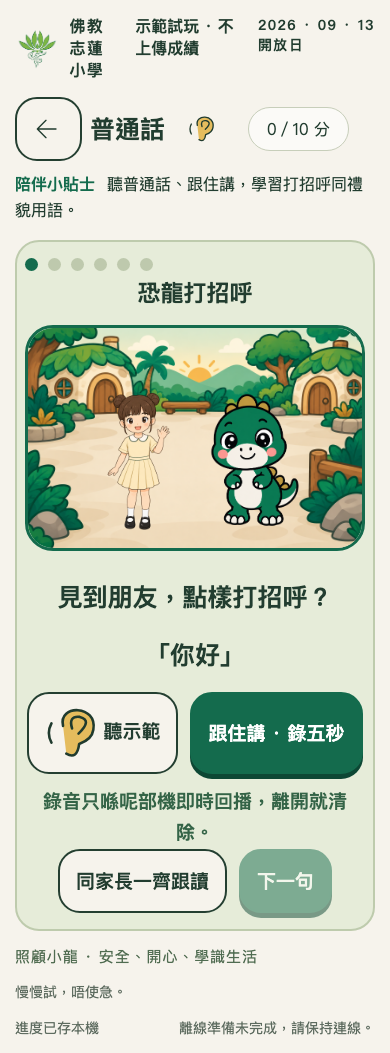
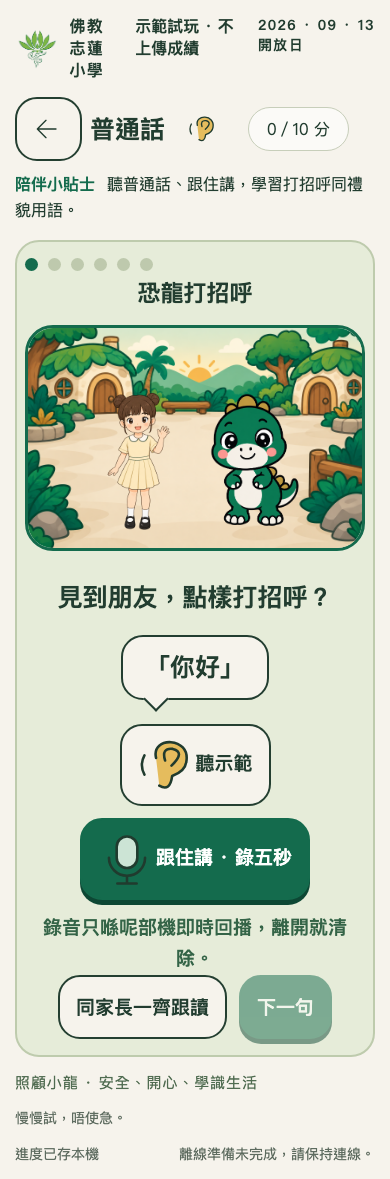
Polish greeting and time-machine visuals; prepare Google acceptance checks

diff --git a/sw.js b/sw.js
@@ -1,5 +1,5 @@
 // Generated precache manifest. Rebuild whenever local assets change.
-const CACHE='dino-island-37e3dee44285';
+const CACHE='dino-island-5d5631d4b723';
 const BASE=new URL('./',self.location.href);
 const ASSETS=["board/board.css","board/board.js","board/img/board-skin.png","board/index.html","hub/app.js","hub/audio/en/actions/freeze.wav","hub/audio/en/actions/hands.wav","hub/audio/en/actions/jump.wav","hub/audio/en/actions/left.wav","hub/audio/en/actions/right.wav","hub/audio/en/actions/sit.wav","hub/audio/en/actions/stand.wav","hub/audio/yue/actions/freeze.wav","hub/audio/yue/actions/hands.wav","hub/audio/yue/actions/left.wav","hub/audio/yue/actions/right.wav","hub/audio/yue/actions/sit.wav","hub/audio/yue/characters/fire.wav","hub/audio/yue/characters/moon.wav","hub/audio/yue/characters/mountain.wav","hub/audio/yue/characters/sun.wav","hub/audio/yue/characters/water.wav","hub/audio/yue/characters/wood.wav","hub/audio/yue/common/complete.wav","hub/audio/yue/common/hint.wav","hub/audio/yue/common/retry.wav","hub/audio/yue/common/welcome.wav","hub/audio/yue/intro/art.wav","hub/audio/yue/intro/chinese.wav","hub/audio/yue/intro/computing.wav","hub/audio/yue/intro/english.wav","hub/audio/yue/intro/general.wav","hub/audio/yue/intro/humanities.wav","hub/audio/yue/intro/mandarin.wav","hub/audio/yue/intro/math.wav","hub/audio/yue/intro/music.wav","hub/audio/yue/intro/pe.wav","hub/audio/yue/intro/science.wav","hub/audio/zh-CN/greetings/goodbye.wav","hub/audio/zh-CN/greetings/hello.wav","hub/audio/zh-CN/greetings/morning.wav","hub/audio/zh-CN/greetings/please.wav","hub/audio/zh-CN/greetings/thanks.wav","hub/audio/zh-CN/greetings/welcome.wav","hub/certificate.js","hub/games.js","hub/img/chars/dino-baby-eat.png","hub/img/chars/dino-baby-sleep.png","hub/img/chars/dino-baby.png","hub/img/chars/landmark-hatch.png","hub/img/chars/landmark-longneck.png","hub/img/chars/landmark-triceratops.png","hub/img/chars/xiaolian-clap.png","hub/img/chars/xiaolian-color.png","hub/img/chars/xiaolian-highfive.png","hub/img/chars/xiaolian-point.png","hub/img/chars/xiaolian-welcome.png","hub/img/chars/xiaolian-write.png","hub/img/chars/xiaozhi-highfive.png","hub/img/chars/xiaozhi-jump.png","hub/img/chars/xiaozhi-run.png","hub/img/chars/xiaozhi-sit.png","hub/img/chars/xiaozhi-step.png","hub/img/chars/xiaozhi-stretch.png","hub/img/chars/xiaozhi-tablet.png","hub/img/chars/xiaozhi-welcome.png","hub/img/games/art/egg-studio.png","hub/img/games/chinese/mountain.png","hub/img/games/chinese/river.png","hub/img/games/chinese/volcano.png","hub/img/games/computing/coding-garden.png","hub/img/games/general/bedtime.png","hub/img/games/general/daytime.png","hub/img/games/general/morning.png","hub/img/games/humanities/river-centre.png","hub/img/games/humanities/safe-forest.png","hub/img/games/humanities/volcano-edge.png","hub/img/games/mandarin/village.png","hub/img/games/math/feeding-garden.png","hub/img/games/music/music-stage.png","hub/img/games/pe/forest-arena.png","hub/img/games/pe/forest-visitor.png","hub/img/games/science/excavation.png","hub/img/map/island-path.png","hub/img/ui/cert-frame.png","hub/index.html","hub/modules/art.js","hub/modules/chinese-scenes.js","hub/modules/computing.js","hub/modules/fossil-art.js","hub/modules/general.js","hub/modules/humanities.js","hub/modules/mandarin.js","hub/modules/math.js","hub/modules/motion.js","hub/modules/music.js","hub/modules/pe-scene.js","hub/modules/science.js","hub/park-guides.js","index.html","setup/index.html","shared/certificate-link.js","shared/config.js","shared/core.js","shared/game-clock-gate.js","shared/game-state.js","shared/icons.js","shared/img/school-logo.png","shared/models/pose-landmarker-lite-v1.task","shared/network.js","shared/offline.js","shared/pose-actions.js","shared/pose-camera.js","shared/qrcode.js","shared/recorder.js","shared/sequence.js","shared/storage.js","shared/style.css","shared/vendor/mediapipe/vision-bundle.js","shared/vendor/mediapipe/wasm/vision_wasm_internal.js","shared/vendor/mediapipe/wasm/vision_wasm_internal.wasm","shared/vendor/mediapipe/wasm/vision_wasm_nosimd_internal.js","shared/vendor/mediapipe/wasm/vision_wasm_nosimd_internal.wasm","shared/voice.js","hub/","board/","setup/"].map(p=>new URL(p,BASE).href);
 self.addEventListener('install',e=>e.waitUntil(caches.open(CACHE).then(c=>c.addAll(ASSETS))));

diff --git a/hub/modules/mandarin.js b/hub/modules/mandarin.js
@@ -18,7 +18,7 @@ export function mountMandarin(root,state,save,finish,{pause=()=>{},resume=()=>{}
  const status=text=>{if(live)root.querySelector('.feedback').textContent=text;};
  function render(){
   clearAudio();const [id,phrase,prompt]=greetings[state.round];const guide=state.round%2===0?'xiaolian':'xiaozhi',guideName=state.round%2===0?'小蓮':'小志';
-  root.innerHTML=`<div class="rounds" aria-label="第 ${state.round+1} 句，共六句">${greetings.map((_,i)=>`<span class="round-dot ${i<=state.round?'done':''}"></span>`).join('')}</div><h2 class="game-instruction">恐龍打招呼</h2><div class="greeting-content"><div class="stage greeting-village"><img class="greeting-backdrop" src="img/games/mandarin/village.png" alt="恐龍村：朋友喺廣場見面打招呼"><img class="character companion" src="img/chars/${guide}-welcome.png" alt="${guideName}陪小龍打招呼"><img class="character dino" src="img/chars/dino-baby.png" alt="小龍留心聽"></div><div class="greeting-dialogue"><p class="game-instruction">${prompt}</p><p class="game-instruction">「${phrase}」</p><div class="actions"><button id="greeting-listen">${icon('ear')}聽示範</button><button id="greeting-record" class="primary">跟住講 · 錄五秒</button><button id="greeting-stop" hidden>講完啦</button><button id="greeting-play" hidden>聽返自己把聲</button></div><p class="feedback" role="status">錄音只喺呢部機即時回播，離開就清除。</p><div class="actions"><button id="greeting-family">同家長一齊跟讀</button><button id="greeting-next" class="primary" disabled>${state.round===5?'完成打招呼':'下一句'}</button></div></div></div>`;
+  root.innerHTML=`<div class="rounds" aria-label="第 ${state.round+1} 句，共六句">${greetings.map((_,i)=>`<span class="round-dot ${i<=state.round?'done':''}"></span>`).join('')}</div><h2 class="game-instruction">恐龍打招呼</h2><div class="greeting-content"><div class="stage greeting-village"><img class="greeting-backdrop" src="img/games/mandarin/village.png" alt="恐龍村：朋友喺廣場見面打招呼"><img class="character companion" src="img/chars/${guide}-welcome.png" alt="${guideName}陪小龍打招呼"><img class="character dino" src="img/chars/dino-baby.png" alt="小龍留心聽"></div><div class="greeting-dialogue"><p class="game-instruction">${prompt}</p><p class="game-instruction speech-bubble">「${phrase}」</p><div class="actions"><button id="greeting-listen">${icon('ear')}聽示範</button><button id="greeting-record" class="primary">${icon('microphone')}跟住講 · 錄五秒</button><button id="greeting-stop" hidden>講完啦</button><button id="greeting-play" hidden>聽返自己把聲</button></div><p class="feedback" role="status">錄音只喺呢部機即時回播，離開就清除。</p><div class="actions"><button id="greeting-family">同家長一齊跟讀</button><button id="greeting-next" class="primary" disabled>${state.round===5?'完成打招呼':'下一句'}</button></div></div></div>`;
   const record=root.querySelector('#greeting-record'),stop=root.querySelector('#greeting-stop'),play=root.querySelector('#greeting-play'),next=root.querySelector('#greeting-next');
   root.querySelector('#greeting-listen').onclick=async()=>{
    if(busy)return;const ok=await playVoice(new URL(`../audio/zh-CN/greetings/${id}.wav`,import.meta.url));if(!ok)status('示範聲音未能播放，請家長陪同讀出呢句。');

diff --git a/tests/live-google.js b/tests/live-google.js
@@ -1,0 +1,35 @@
+import {GoogleBridge} from '../shared/network.js';
+export const LIVE_URL_RE=/^https:\/\/script\.google\.com\/macros\/s\/[^/]+\/exec$/;
+const ZONES=['math','chinese','english','mandarin','general','science','humanities','art','music','pe','computing'];
+export function createRpc(url,token=''){
+ const bridge=new GoogleBridge(url);
+ const rpc=(method,payload={})=>bridge.call(method,method==='getBoard'?payload:{...payload,deviceToken:token});
+ rpc.destroy=()=>bridge.destroy();return rpc;
+}
+export async function runAcceptance(rpc,onProgress=()=>{}){
+ const playerId=`live-${crypto.randomUUID()}`,name=`測試${Math.floor(Math.random()*10000)}`;
+ const report={playerId,name,results:[],passed:false,unverified:false};
+ const send=(version,zones)=>rpc('savePlayer',{requestId:`${playerId}:${version}`,player:{id:playerId,name,version,zones}});
+ const check=(name,pass,detail)=>{report.results.push({name,status:pass===null?'unverified':pass?'pass':'fail',detail});onProgress(report);};
+ const zones=count=>Object.fromEntries(ZONES.slice(0,count).map(id=>[id,id==='math'?240000:1000]));
+ onProgress(report); // Show the ID before writing, including when a later request fails.
+ let r=await send(1,{math:240000});
+ check('240000ms 接受',r.score===1&&r.totalMs===240000,`站數 ${r.score}，時間 ${r.totalMs}ms`);
+ let rejected=false;
+ try{await send(2,{english:240001});}catch(e){if(!e.message.includes('站點時間不正確'))throw e;rejected=true;}
+ check('240001ms 拒絕',rejected,rejected?'收到站點時間驗證錯誤':'後台未拒絕超時紀錄');
+ r=await send(3,{math:1});
+ check('已完成站時間不可重寫',r.score===1&&r.totalMs===240000,`站數 ${r.score}，時間 ${r.totalMs}ms`);
+ r=await send(4,zones(6));const six=await rpc('getBoard');
+ check('六站未進排名',r.score===6&&r.totalMs===245000&&six.exploring>=1&&!six.players.some(p=>p.id===playerId),`本人 ${r.score} 站；探索中 ${six.exploring} 位（榜只提供合計人數）`);
+ r=await send(5,zones(10));
+ check('十站完成紀錄',r.score===10&&r.totalMs===249000,`站數 ${r.score}，時間 ${r.totalMs}ms`);
+ const board=await rpc('getBoard'),ranked=board.players.find(p=>p.id===playerId);
+ const outside=!ranked&&board.players.length===10&&board.others>0;
+ check('十站排名',ranked?ranked.zonesCompleted===10&&ranked.totalMs===249000:outside?null:false,ranked?'測試紀錄已出現在 Top 10':outside?'Top 10 已滿，需在 Sheets 另行確認測試紀錄':'榜上找不到已完成紀錄');
+ r=await send(6,zones(11));
+ check('第十一科不增加總分',r.score===10&&r.totalMs===249000,`站數 ${r.score}，時間 ${r.totalMs}ms`);
+ report.board={ranked:board.players.length,others:board.others,exploring:board.exploring};
+ report.unverified=report.results.some(x=>x.status==='unverified');
+ report.passed=report.results.every(x=>x.status==='pass');return report;
+}

diff --git a/tests/live-google.html b/tests/live-google.html
@@ -1,0 +1,33 @@
+<!doctype html>
+<html lang="zh-HK">
+<meta charset="utf-8"><meta name="viewport" content="width=device-width,initial-scale=1">
+<title>Google 驗收準備</title><link rel="stylesheet" href="../shared/style.css">
+<main class="setup">
+ <p class="eyebrow">老師使用 · 本機驗收準備</p><h1>Google 後台驗收</h1>
+ <p>網址及裝置憑證只存在本頁記憶體。本頁不自動清理、不上傳相片。真實 Google 尚未測試。</p>
+ <label for="url">Apps Script 正式部署網址</label><input id="url" type="url" autocomplete="off" placeholder="https://script.google.com/macros/s/…/exec">
+ <label for="token">裝置憑證（建立測試紀錄時需要）</label><input id="token" type="password" autocomplete="off">
+ <div class="actions"><button id="board">讀榜</button><button id="run" class="primary">建立測試紀錄並驗收</button></div>
+ <p id="status" class="notice" role="status"></p><pre id="result" aria-live="polite" style="white-space:pre-wrap;overflow-wrap:anywhere"></pre>
+ <p>驗收會建立一條「測試xxxx」紀錄。完成後由老師按下方顯示的參加者 ID 在 Sheets 移除該條測試紀錄；本頁不會自動刪除。</p>
+</main>
+<script type="module">
+ import {LIVE_URL_RE,createRpc,runAcceptance} from './live-google.js';
+ const $=s=>document.querySelector(s),url=$('#url'),token=$('#token'),status=$('#status'),out=$('#result');
+ const buttons=[$('#board'),$('#run')],show=x=>out.textContent=JSON.stringify(x,null,2);
+ async function run(write){
+  buttons.forEach(b=>b.disabled=true);let rpc;
+  try{
+   if(!LIVE_URL_RE.test(url.value.trim()))throw Error('請填正式 /exec 部署網址。');
+   if(write&&!token.value.trim())throw Error('請輸入裝置憑證。');
+   rpc=createRpc(url.value.trim(),write?token.value.trim():'');
+   status.textContent=write?'建立測試紀錄並驗收中…':'讀榜中…';
+   if(!write){show(await rpc('getBoard'));status.textContent='已收到榜資料。';return;}
+   const r=await runAcceptance(rpc,show);show(r);
+   status.textContent=r.results.some(x=>x.status==='fail')?'驗收未通過。':r.unverified?'部分未能驗證，請查看結果。':r.passed?'驗收通過。':'驗收未完成。';
+  }catch(e){status.textContent=`未完成：${e.message}`;}
+  finally{rpc?.destroy();buttons.forEach(b=>b.disabled=false);}
+ }
+ $('#board').onclick=()=>run(false);$('#run').onclick=()=>run(true);
+</script>
+</html>

diff --git a/shared/network.js b/shared/network.js
@@ -2,8 +2,8 @@ import {CONFIG} from './config.js';
 import {read,write,DEMO} from './storage.js';
 export const networkSettings=()=>({...CONFIG,...read('settings',{}),...(DEMO?{appScriptUrl:'',deviceToken:''}:{})});
 export class GoogleBridge{
- constructor(){this.pending=new Map();this.channel=crypto.randomUUID();this.ready=null;this.receiver=null;}
- connect(){if(this.ready)return this.ready;const url=networkSettings().appScriptUrl;if(!url)return Promise.reject(Error('尚未設定活動連線'));if(!/^https:\/\/script\.google\.com\/macros\/s\/[^/]+\/exec$/.test(url))return Promise.reject(Error('活動連線網址不正確'));
+ constructor(appScriptUrl=null){this.pending=new Map();this.channel=crypto.randomUUID();this.ready=null;this.receiver=null;this.appScriptUrl=appScriptUrl;}
+ connect(){if(this.ready)return this.ready;const url=this.appScriptUrl??networkSettings().appScriptUrl;if(!url)return Promise.reject(Error('尚未設定活動連線'));if(!/^https:\/\/script\.google\.com\/macros\/s\/[^/]+\/exec$/.test(url))return Promise.reject(Error('活動連線網址不正確'));
  this.ready=new Promise((resolve,reject)=>{const timer=setTimeout(()=>{this.destroy();reject(Error('連線暫時未完成'));},20000);this.listener=e=>{
  const m=e.data;if(!m||m.channel!==this.channel||!/^https:\/\/(?:[a-z0-9-]+-)?script\.googleusercontent\.com$/.test(e.origin))return;
  if(m.kind==='ready'&&!this.receiver){this.receiver=e.source;this.origin=e.origin;clearTimeout(timer);resolve();return;}

diff --git a/hub/modules/humanities.js b/hub/modules/humanities.js
@@ -6,7 +6,7 @@ const shapes={
  river:'<path fill="#9bd0db" d="M35 3H65Q25 30 62 43Q96 59 50 87H17Q65 58 36 48Q0 35 35 3Z"/>',
  camp:'<path fill="#e5bc5d" d="M8 77L45 17L82 77Z"/><path fill="#f6f3ec" d="M31 77L45 48L59 77Z"/>',
  bottle:'<path fill="#a6d5df" d="M30 30V17H60V30L69 43V79H21V43Z"/><path fill="#e5bc5d" d="M28 8H62V20H28Z"/><path d="M30 50h30m-30 12h30"/>',
- machine:'<rect fill="#e5bc5d" x="10" y="16" width="70" height="65" rx="20"/><circle fill="#d2e5d1" cx="45" cy="46" r="23"/><path d="M45 29v18l12 7M25 8h40"/><circle fill="#146b4d" cx="25" cy="72" r="3"/><circle fill="#146b4d" cx="65" cy="72" r="3"/>'
+ machine:'<path fill="#f6f3ec" d="M16 78V42Q16 15 45 15T74 42V78Z"/><path fill="#bad1a0" d="M26 76V43Q26 25 45 25T64 43V76Z"/><path fill="#f6f3ec" d="M34 76V47Q34 36 45 36T56 47V76Z"/><path fill="#e5bc5d" d="M10 76H80V84H10Z"/><circle fill="#e5bc5d" cx="24" cy="51" r="4"/><circle fill="#e5bc5d" cx="66" cy="51" r="4"/><circle fill="#146b4d" cx="25" cy="67" r="3"/><circle fill="#146b4d" cx="65" cy="67" r="3"/><path d="M45 7V15"/><circle fill="#e5bc5d" cx="45" cy="5" r="3"/>'
 };
 const picture=id=>shapes[id]?`<svg class="icon" viewBox="0 0 90 90" fill="none" stroke="#203b2e" stroke-width="4" stroke-linecap="round" stroke-linejoin="round" aria-hidden="true">${shapes[id]}</svg>`:icon(id);
 const sceneFiles={forest:'safe-forest',volcano:'volcano-edge',river:'river-centre'};

diff --git a/shared/style.css b/shared/style.css
@@ -121,3 +121,6 @@
 @media(max-width:600px){.coding-layout{padding:8px}.coding-guide{width:76px;flex-shrink:0}.coding-guide p{padding:6px}.coding-grid{width:calc(100% - 84px)}}
 
 @media(min-width:851px){.coding-workspace{display:grid;grid-template-columns:1.15fr 1fr;gap:24px;align-items:center}.coding-workspace .coding-layout{width:100%;padding:10px;gap:12px}.coding-workspace .coding-guide{width:100px;flex-shrink:0;font-size:14px}.coding-workspace .coding-guide img{height:150px}.coding-workspace .coding-grid{width:calc(100% - 112px);max-width:340px}.coding-controls .coding-commands{display:grid;grid-template-columns:repeat(2,1fr)}.coding-controls .coding-commands button{justify-content:center}.coding-controls .actions{gap:12px}.coding-controls .feedback{text-align:center}}
+
+.greeting-dialogue .speech-bubble{width:fit-content;padding:10px 22px;background:var(--cream);border:2px solid var(--ink);border-radius:22px;position:relative;margin-bottom:24px}
+.greeting-dialogue .speech-bubble:after{content:"";position:absolute;left:24px;bottom:-10px;width:16px;height:16px;background:var(--cream);border-right:2px solid var(--ink);border-bottom:2px solid var(--ink);transform:rotate(45deg)}

diff --git a/shared/icons.js b/shared/icons.js
@@ -1,4 +1,5 @@
 const paths={
+ microphone:'<rect fill="#cce4d5" x="29" y="10" width="32" height="49" rx="16"/><path d="M17 43a28 28 0 0056 0M45 71v12M30 83h30"/>',
  water:'<path fill="#7fc9db" d="M45 12Q15 45 15 61a30 30 0 0060 0Q75 45 45 12Z"/><path d="M29 57q-5 15 9 18"/>',
  apple:'<path fill="#ee937c" d="M45 32C10 8 1 63 25 83q10 7 20-1 12 8 21 0C92 51 77 14 45 32Z"/><path d="M45 31V16"/><path fill="#75a75b" d="M45 22Q53 4 71 12Q63 30 45 22Z"/>',
  leaf:'<path fill="#75a75b" d="M16 78Q1 12 77 13Q87 82 16 78Z"/><path d="M17 77L65 30m-26 26L36 36m3 20 22 2"/>',

diff --git a/docs/ASSET-REMAINING.md b/docs/ASSET-REMAINING.md
@@ -1,0 +1,40 @@
+# 尚欠遊戲素材
+
+來源：`Dino Island｜11 科恐龍遊戲 Game Module Planning.md`。已按 `game-update-v2` 的 `hub/modules/` 核對。以下 29 項檔案均不存在，manifest 仍保留未完成狀態。
+
+| 科目 | 尚欠檔案（相對 hub/img/） | 現時暫代 | 所需動作／主體 | 下一步 |
+|---|---|---|---|---|
+| art | `games/art/dino-hatching.png` | `chars/dino-baby.png` | 小龍孵化 | 製作真透明角色圖 |
+| art | `games/art/xiaozhi-surprised.png` | `chars/xiaozhi-welcome.png` | 小志驚訝 | 製作真透明角色圖 |
+| chinese | `games/chinese/dino-walking.png` | `chars/dino-baby.png` | 小龍行路 | 製作真透明角色圖 |
+| chinese | `games/chinese/dino-drinking.png` | `chars/dino-baby.png` | 小龍飲水 | 製作真透明角色圖 |
+| computing | `games/computing/dino-robot.png` | `chars/dino-baby.png` + CSS robot panel | 小龍機械人 | 重新產真透明圖；程式去背待明確批准 |
+| english | `games/english/dino-jump.png` | `chars/dino-baby.png` | 跳 | 製作真透明角色圖 |
+| english | `games/english/dino-squat.png` | `chars/dino-baby.png` | 蹲 | 製作真透明角色圖 |
+| english | `games/english/dino-hands-up.png` | `chars/dino-baby.png` | 舉手 | 製作真透明角色圖 |
+| english | `games/english/dino-left.png` | `chars/dino-baby.png` | 向左 | 製作真透明角色圖 |
+| english | `games/english/dino-right.png` | `chars/dino-baby.png` | 向右 | 製作真透明角色圖 |
+| english | `games/english/dino-celebrate.png` | `chars/dino-baby.png` | 慶祝 | 製作真透明角色圖 |
+| general | `games/general/dino-waking.png` | `chars/dino-baby.png` | 起床 | 製作真透明角色圖 |
+| general | `games/general/dino-playing.png` | `chars/dino-baby.png` | 玩耍 | 製作真透明角色圖 |
+| general | `games/general/dino-washing.png` | `chars/dino-baby.png` | 洗澡 | 製作真透明角色圖 |
+| humanities | `games/humanities/xiaolian-explorer.png` | `chars/xiaolian-point.png` | 小蓮探險引導 | 製作真透明角色圖 |
+| humanities | `games/humanities/xiaozhi-explorer.png` | `chars/xiaozhi-welcome.png` | 小志探險 | 製作真透明角色圖 |
+| mandarin | `games/mandarin/dino-greeting.png` | `chars/dino-baby.png` | 打招呼 | 製作真透明角色圖 |
+| mandarin | `games/mandarin/dino-thanks.png` | `chars/dino-baby.png` | 多謝 | 製作真透明角色圖 |
+| mandarin | `games/mandarin/dino-goodbye.png` | `chars/dino-baby.png` | 再見 | 製作真透明角色圖 |
+| mandarin | `games/mandarin/dino-listening.png` | `chars/dino-baby.png` | 聆聽 | 製作真透明角色圖 |
+| math | `games/math/friend-longneck.png` | `chars/dino-baby.png` | 長頸龍朋友 | 製作真透明角色圖 |
+| math | `games/math/friend-triceratops.png` | `chars/dino-baby.png` | 三角龍朋友 | 製作真透明角色圖 |
+| math | `games/math/dino-hungry.png` | `chars/dino-baby.png` | 小龍肚餓 | 製作真透明角色圖 |
+| music | `games/music/dino-drum.png` | Inline SVG drum + `chars/dino-baby.png` | 小龍打鼓 | 重新產真透明圖；程式去背待明確批准 |
+| music | `games/music/xiaolian-bell.png` | `chars/xiaolian-clap.png` + inline bell | 小蓮搖鈴 | 製作真透明角色圖 |
+| music | `games/music/xiaozhi-percussion.png` | `chars/xiaozhi-highfive.png` + inline clap | 小志拍手 | 製作真透明角色圖 |
+| PE | `games/pe/dino-coach.png` | `chars/xiaozhi-stretch.png` | 小龍教練 | 製作真透明角色圖 |
+| science | `games/science/xiaolian-scientist.png` | `chars/xiaolian-point.png` | 小蓮科學家 | 製作真透明角色圖 |
+| science | `games/science/xiaozhi-scientist.png` | `chars/xiaozhi-welcome.png` | 小志科學家 | 製作真透明角色圖 |
+
+`pe.json` 的 `friendly-trex` 已有 `kind: "scene"`，正確指向 `games/pe/forest-visitor.png`，不是欠缺的角色 sprite。
+
+
+已核對並重用：英文站直／停定使用現有 dino-baby.png；人文時光機使用原創 SVG，不另造重複 PNG。跳躍新草稿亦沒有 alpha，與機械小龍、打鼓草稿一樣未接入網站。

diff --git a/docs/V2-REVIEW.md b/docs/V2-REVIEW.md
@@ -10,7 +10,7 @@
 
 ## 已取得的驗證證據
 
-- `npm test`：43 項單元測試通過，涵蓋計分、後台計時、媒體生命週期、指令、姿態判定與描寫。
+- `npm test`：45 項單元測試通過，涵蓋計分、後台計時、媒體生命週期、指令、姿態判定與描寫；新增驗收頁使用實際 Apps Script 原始碼的本機測試，包含已有玩家／Top 10 已滿，並區分連線錯誤與時間驗證錯誤。
 - `npm run test:browser`：同一參加者實際操作十科，驗證 5 分禁止領證、6 分證書、9 分未排名、10 分上本機榜、鎖關、虛擬拍照、待傳相片及換人。英文與普通話使用親子替代模式；榜單容量加入合成資料。
 - `npm run test:offline`：預载後模擬離線重開、11 路由／素材、模型與語音、補傳佇列、普通證書及專案子路徑；老師設定頁亦會逐項核對實際快取，缺素材時不報完成。
 - 各科瀏覽器測試與截圖在 `tests/`、`docs/screenshots/`；中文教育局動畫筆數／次序／方向核對在 `docs/chinese-stroke-sources.json`。
@@ -20,7 +20,7 @@
 
 ## 發布前仍需完成
 
-- 補齊角色指定姿勢、恐龍朋友、機械小龍及尚缺場景。`design/game-assets/` 按科保存清單／提示；`drafts/` 圖片透明底不合格，沒有接入遊戲，不能視為成品。
+- 補齊 29 項角色指定姿勢、恐龍朋友及機械小龍，見 [ASSET-REMAINING.md](ASSET-REMAINING.md)。英文站直／停定沿用既有幼龍，人文時光機使用原創 SVG；`design/game-assets/` 按科保存清單／提示。`drafts/` 圖片透明底不合格，沒有接入遊戲，不能視為成品。
 - 教師核對 39 段讀音及中文教材字形；試聽頁為 `/design/audio/review.html`。合成聲檔已有，尚未教師批准。
 - 真實 iPad 的全身動作辨識、觸控／橫直向、相機／咪權限及離線測試；家長手機下載、現場電視遠距可讀性、10 部裝置與 Google 同步／上傳負載。
 - Apps Script 已於 2026-09-10 更新原部署至第 3 版，單站上限 240 秒；真實提交驗收仍待完成，前端尚未發布。

diff --git a/design/game-assets/english-jump-prompt.md b/design/game-assets/english-jump-prompt.md
@@ -1,0 +1,7 @@
+# 英文跳躍小龍草稿
+
+2026-09-10，內置 image_gen，直接參考已批准嘅透明 PNG hub/img/chars/dino-baby.png。輸出只保留於 design/game-assets/drafts/dino-jump-v1.png。sips hasAlpha=no；背景係實色棋盤格，唔係可上線素材。沒有程式去背。
+
+## 最終提示
+
+Edit this existing transparent PNG character into one new jumping pose. Keep the exact same little green dinosaur identity: same huge rounded head, eye shape and black/white highlights, cream muzzle and belly, blush cheeks, three round gold head plates, thick black outlines, small round body, tail, green colours and gentle shading. Bend both knees with feet lifted off the ground and arms lifted slightly outwards in a happy little jump, clearly readable preschool action demonstration. Full body centered with 10% clear margins; no clipping. Preserve genuine transparency outside the character: output RGBA PNG, exterior alpha=0, NOT a drawn checkerboard, NOT black/white/cream background. No floor, no shadow, no text, no border, no motion streaks. This is a production sprite layered on a game scene, so a painted background is unusable. Do not redesign the face or style.
